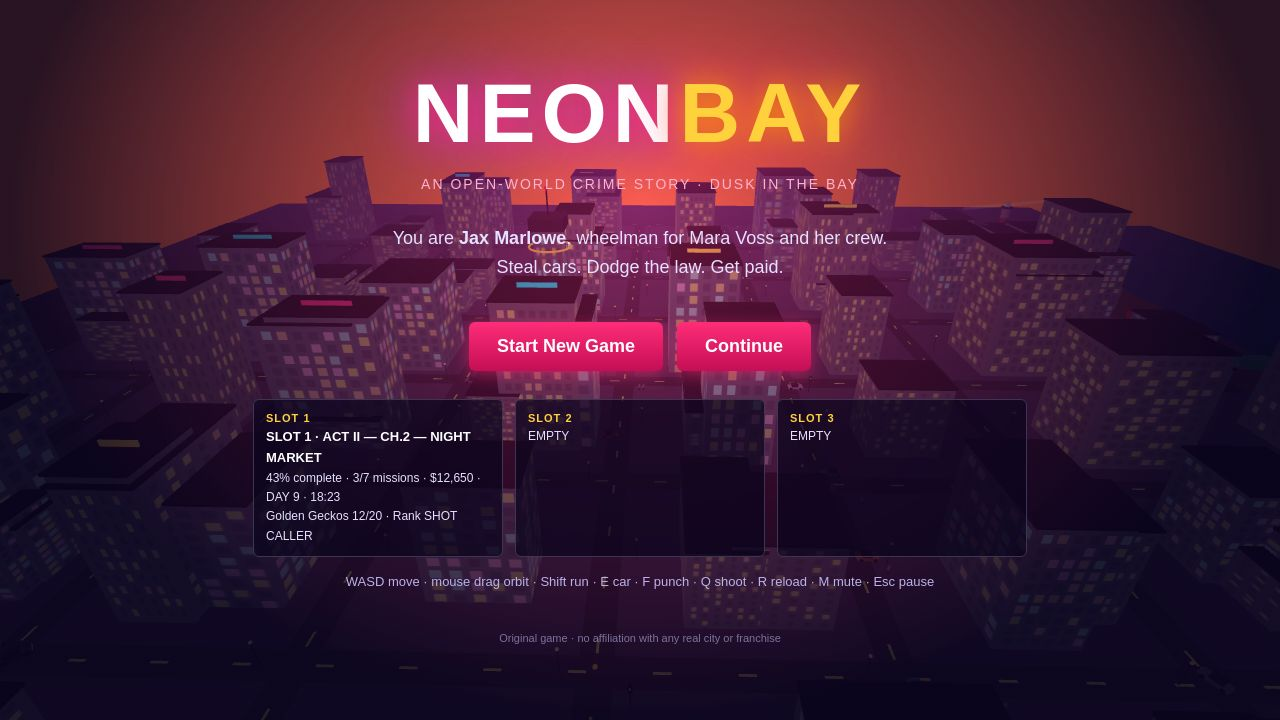
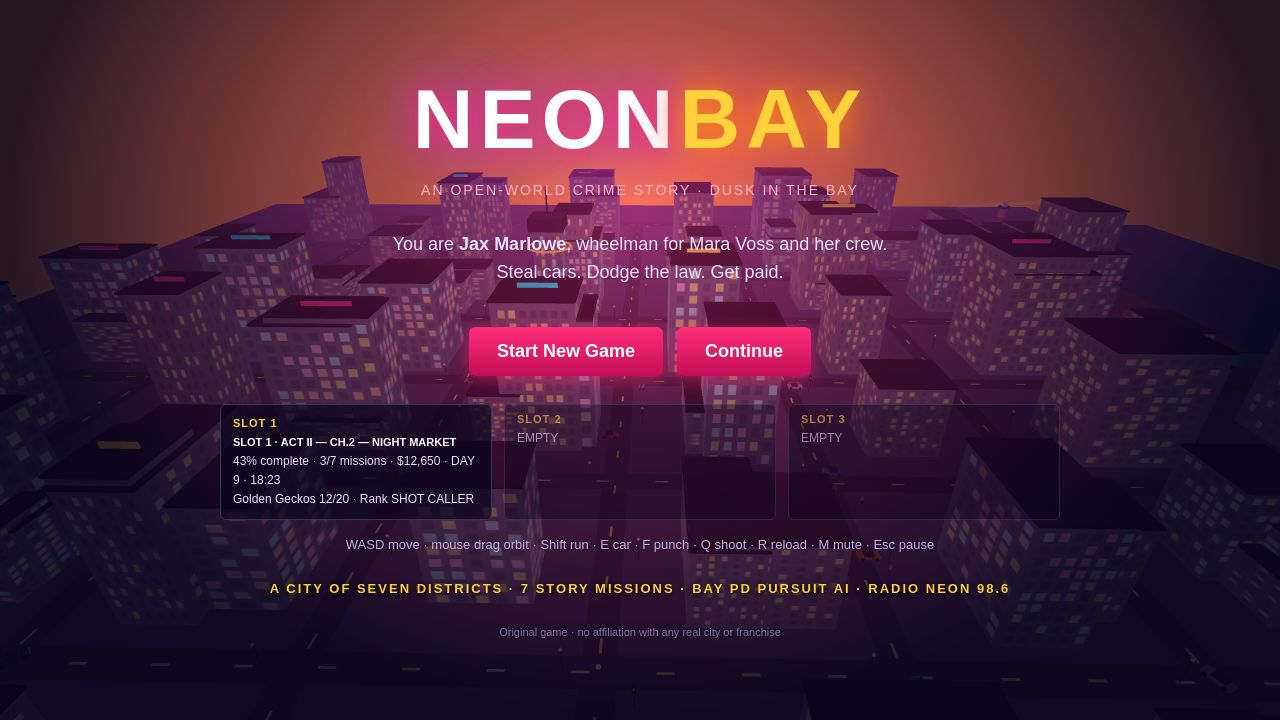
Round 7: MAP & STATS polish (completion ring, mission ratings, POI map) + brighter golden-hour title

diff --git a/game/src/main.js b/game/src/main.js
@@ -3,6 +3,9 @@
 // stages a money shot (legacy ?shot=start|drive|wanted|mission still work).
 // Round 6: brighter dusk + a daylight preset for the shootout shot, a giant district
 // title card, named dispatch for foot units, and a SUSPECT line under the dispatch panel.
+// Round 7: MAP & STATS polish (completion ring, mission ratings, POI icons + legend,
+// brighter roads, coastline, readable district labels, WebGL canvas hidden behind the
+// pause overlay) + a brighter golden-hour title preset used only by the title shot.
 import * as THREE from 'three';
 import { buildCity, districtAt } from './city.js';
 import { createAudio } from './audio.js';
@@ -25,7 +28,7 @@ const scene = new THREE.Scene();
 const camera = new THREE.PerspectiveCamera(62, innerWidth / innerHeight, 0.1, 1200);
 addEventListener('resize', () => { camera.aspect = innerWidth / innerHeight; camera.updateProjectionMatrix(); renderer.setSize(innerWidth, innerHeight); });
 
-const city = buildCity(scene, seed, { day: SHOT === 'shootout' });
+const city = buildCity(scene, seed, { day: SHOT === 'shootout', title: SHOT === 'title' });
 const rand = mulberry32(seed * 7919 + 13);
 const audio = createAudio();
 
@@ -558,12 +561,19 @@ function startGame(fresh) {
   if (G.missionIdx < MISSIONS.length) startMission(G.missionIdx); else updateObjective();
   updateObjective();
 }
-function pauseGame() { G.screen = 'pause'; fillMapScreen(); show($('pause'), true); saveGame(); }
-function resumeGame() { G.screen = 'play'; show($('pause'), false); }
+function pauseGame() {
+  G.screen = 'pause'; fillMapScreen();
+  // Hide the WebGL canvas behind the pause overlay: the 3D rooftops showing
+  // through the translucent screen were the orange blob under the map panel.
+  // The title screen keeps its 3D panorama — this only hides it while paused.
+  canvas.style.display = 'none';
+  show($('pause'), true); saveGame();
+}
+function resumeGame() { G.screen = 'play'; canvas.style.display = ''; show($('pause'), false); }
 $('btn-new').onclick = () => startGame(true);
 $('btn-continue').onclick = () => startGame(false);
 $('btn-resume').onclick = resumeGame;
-$('btn-quit').onclick = () => { saveGame(); G.screen = 'title'; show($('pause'), false); show($('hud'), false); show($('title'), true); refreshContinue(); };
+$('btn-quit').onclick = () => { saveGame(); G.screen = 'title'; canvas.style.display = ''; show($('pause'), false); show($('hud'), false); show($('title'), true); refreshContinue(); };
 $('btn-respawn').onclick = () => { show($('busted'), false); show($('hud'), true); G.screen = 'play'; updateObjective(); };
 $('btn-md').onclick = () => {
   show($('mission-done'), false); G.screen = 'play';
@@ -583,12 +593,23 @@ function fillSlots() {
 refreshContinue();
 
 // ---------- MAP & STATS screen ----------
+// Mission ratings are staged-save display data (same fiction as the career stats):
+// shown ONLY for missions already DONE in the staged save (missions 1-3).
+const MISSION_RATINGS = ['G', 'S', 'B'];
 function fillMapScreen() {
   const done = Math.min(G.missionIdx, 7);
+  // Completion ring, computed from real state (missions done / 7):
+  // the staged save has 3/7 done, so the ring reads 43% COMPLETE.
+  const pct = Math.round(done / 7 * 100);
+  const ring = $('progress-ring');
+  ring.style.background = `conic-gradient(#ffd23d ${pct * 3.6}deg, rgba(255,255,255,.15) 0deg)`;
+  $('progress-pct').textContent = pct + '%';
+  $('progress-caption').innerHTML = `<b>${pct}% COMPLETE</b> · ${done}/7 MISSIONS`;
   $('map-missions').innerHTML = '<h3>STORY MISSIONS · 7 JOBS · 5 CHAPTERS</h3>' + MISSIONS.map((m, i) => {
     const cls = i < done ? 'done' : i === done ? 'next' : 'locked';
     const tag = i < done ? 'DONE ✓' : i === done ? 'NEXT' : 'LOCKED';
-    return `<div class="mrow ${cls}"><span>CH.${m.chapter} · ${m.title.toUpperCase()}</span><span class="pay">${fmtMoney(m.reward)} · ${tag}</span></div>`;
+    const rating = i < done && MISSION_RATINGS[i] ? `<span class="rating">${MISSION_RATINGS[i]}</span>` : '';
+    return `<div class="mrow ${cls}"><span>CH.${m.chapter} · ${m.title.toUpperCase()}${rating}</span><span class="pay">${fmtMoney(m.reward)} · ${tag}</span></div>`;
   }).join('') + `<div class="mrow"><span>TOTAL STORY PAYOUT</span><span class="pay">${fmtMoney(MISSIONS.reduce((a, m) => a + m.reward, 0))}</span></div>`;
   const friendly = city.districts.filter(d => d.standing >= 65).length;
   const { cur, next } = rankFor(G.respect);
@@ -619,16 +640,23 @@ function drawPauseMap() {
     c.fillRect(toX(d.minX), toZ(d.minZ), toX(d.maxX) - toX(d.minX), toZ(d.maxZ) - toZ(d.minZ));
   });
   c.fillStyle = '#0e4a6e'; c.fillRect(toX(185), 0, W - toX(185), H); // harbour water over the east strip
-  city.districts.forEach((d) => { // labels last, so the water never clips them
-    c.fillStyle = '#fff'; c.font = 'bold 11px Arial'; c.textAlign = 'center';
-    c.fillText(d.name, (toX(d.minX) + toX(d.maxX)) / 2, (toZ(d.minZ) + toZ(d.maxZ)) / 2 - 4);
-    c.fillStyle = '#ffd23d'; c.font = '10px Arial';
-    c.fillText(`${d.mood} ${d.standing}`, (toX(d.minX) + toX(d.maxX)) / 2, (toZ(d.minZ) + toZ(d.maxZ)) / 2 + 10);
-  });
-  c.strokeStyle = '#6a6285'; c.lineWidth = 2;
+  // beach strip + coastline where the land meets the harbour water
+  c.fillStyle = '#c9a86a'; c.fillRect(toX(175), 0, toX(185) - toX(175), H);
+  c.strokeStyle = '#7de3ff'; c.lineWidth = 3;
+  c.beginPath(); c.moveTo(toX(185), 0); c.lineTo(toX(185), H); c.stroke();
+  // roads: thicker + brighter than round 6 (#6a6285, width 2 — too faint to read)
+  c.strokeStyle = '#a89ec4'; c.lineWidth = 3;
   for (const r of city.roadLines) {
     c.beginPath(); c.moveTo(toX(-200), toZ(r)); c.lineTo(toX(200), toZ(r)); c.stroke();
     c.beginPath(); c.moveTo(toX(r), toZ(-200)); c.lineTo(toX(r), toZ(200)); c.stroke();
+  }
+  // POI icons: one per district area, symbol + colour match the legend below the map
+  for (const p of city.pois) {
+    c.fillStyle = p.color; c.beginPath(); c.arc(toX(p.x), toZ(p.z), 8, 0, 7); c.fill();
+    c.strokeStyle = 'rgba(0,0,0,0.6)'; c.lineWidth = 2; c.stroke();
+    c.fillStyle = (p.key === 'stash' || p.key === 'safehouse') ? '#141021' : '#fff';
+    c.font = 'bold 10px Arial'; c.textAlign = 'center';
+    c.fillText(p.sym, toX(p.x), toZ(p.z) + 3.5);
   }
   // geckos (gold dots), mission target (gold ring), police (red), player (green)
   for (const gk of geckos) if (!gk.taken) { c.fillStyle = '#ffd23d'; c.beginPath(); c.arc(toX(gk.x), toZ(gk.z), 3, 0, 7); c.fill(); }
@@ -637,6 +665,24 @@ function drawPauseMap() {
   c.fillStyle = '#ff2222';
   for (const pc of policeCars()) { c.beginPath(); c.arc(toX(pc.group.position.x), toZ(pc.group.position.z), 4, 0, 7); c.fill(); }
   c.fillStyle = '#7dff9a'; c.beginPath(); c.arc(toX(player.pos.x), toZ(player.pos.z), 5, 0, 7); c.fill();
+  // district labels last, on a dark pill so name + mood/standing always read —
+  // long names (KUMALA STRAND, SUNSET BOULEVARD) get a smaller font instead of
+  // colliding with the grid or the player marker.
+  city.districts.forEach((d) => {
+    const cx = (toX(d.minX) + toX(d.maxX)) / 2, cy = (toZ(d.minZ) + toZ(d.maxZ)) / 2;
+    const small = d.name.length > 12;
+    c.font = `bold ${small ? 9 : 11}px Arial`;
+    const nameW = c.measureText(d.name).width;
+    c.font = '10px Arial';
+    const moodW = c.measureText(`${d.mood} ${d.standing}`).width;
+    const w = Math.max(nameW, moodW) + 12;
+    c.fillStyle = 'rgba(0,0,0,0.55)';
+    c.fillRect(cx - w / 2, cy - 13, w, 26);
+    c.fillStyle = '#fff'; c.font = `bold ${small ? 9 : 11}px Arial`; c.textAlign = 'center';
+    c.fillText(d.name, cx, cy - 3);
+    c.fillStyle = '#ffd23d'; c.font = '10px Arial';
+    c.fillText(`${d.mood} ${d.standing}`, cx, cy + 11);
+  });
 }
 
 // ---------- per-frame updates ----------

diff --git a/game/src/city.js b/game/src/city.js
@@ -3,6 +3,9 @@
 // opts.night renders the same city at night (darker sky, dimmer sun, brighter windows).
 // opts.day renders it in bright daylight (blue sky, strong sun) — used by the daytime
 // shootout shot; the default is a brightened dusk so streets read clearly.
+// opts.title renders a brighter golden-hour dusk — same orange-violet identity, only
+// lighter (brighter sky, ambient ~1.25, sun ~2.0, windows a touch brighter) — used
+// ONLY by the title-screen staging, never by the gameplay shots.
 import * as THREE from 'three';
 import { mulberry32 } from './util.js';
 
@@ -34,9 +37,20 @@ export const GECKO_SPOTS = [
   [-155, 45], [95, 145], [-105, -105], [45, -155], [-5, -155], [145, -5],
 ];
 
+// Points of interest for the MAP screen: one per district area, fixed positions
+// (race on the beachfront road, stash by the harbour, safehouse by the spawn,
+// clinic by the hospital). Symbol + colour match the map legend in index.html.
+export const POIS = [
+  { key: 'race', label: 'RACE', sym: 'R', color: '#ff2d78', x: 175, z: 45 },
+  { key: 'stash', label: 'STASH', sym: '$', color: '#ffd23d', x: 180, z: -40 },
+  { key: 'safehouse', label: 'SAFEHOUSE', sym: 'H', color: '#7dff9a', x: -55, z: 120 },
+  { key: 'clinic', label: 'CLINIC', sym: '+', color: '#ff5c5c', x: -155, z: -105 },
+];
+
 export function buildCity(scene, seed, opts = {}) {
   const night = !!opts.night;
   const day = !!opts.day;
+  const title = !!opts.title; // golden-hour title preset: brighter dusk, same identity
   const rand = mulberry32(seed);
   const colliders = []; // {minX,maxX,minZ,maxZ}
   const roadLines = []; // x or z coords of road centrelines
@@ -46,10 +60,10 @@ export function buildCity(scene, seed, opts = {}) {
   for (let i = 0; i <= 8; i++) roadLines.push(-200 + i * 50 - 5);
 
   // --- sky: gradient dome + fog ---
-  scene.background = new THREE.Color(day ? 0x8fd0f0 : night ? 0x0b1026 : 0x2a1548);
-  scene.fog = new THREE.Fog(day ? 0xa8d8ea : night ? 0x141a3a : 0x4a2a6e, 120, 520);
+  scene.background = new THREE.Color(day ? 0x8fd0f0 : night ? 0x0b1026 : title ? 0x4a2560 : 0x2a1548);
+  scene.fog = new THREE.Fog(day ? 0xa8d8ea : night ? 0x141a3a : title ? 0x6e3a8a : 0x4a2a6e, 120, 520);
   const skyGeo = new THREE.SphereGeometry(600, 16, 12);
-  const skyMat = new THREE.MeshBasicMaterial({ color: day ? 0x6ec1f2 : night ? 0x1a2a55 : 0xff7a3d, side: THREE.BackSide, fog: false });
+  const skyMat = new THREE.MeshBasicMaterial({ color: day ? 0x6ec1f2 : night ? 0x1a2a55 : title ? 0xff9a4d : 0xff7a3d, side: THREE.BackSide, fog: false });
   const sky = new THREE.Mesh(skyGeo, skyMat);
   scene.add(sky);
   // sun disc low on the horizon (west) — at night a pale moon in the same place,
@@ -60,13 +74,15 @@ export function buildCity(scene, seed, opts = {}) {
   // --- lights ---
   // Dusk is deliberately brighter than round 5 (ambient 0.85 -> 1.0, sun 1.4 -> 1.7,
   // hemi 0.5 -> 0.65) so asphalt and facades read instead of going near-black.
-  scene.add(new THREE.AmbientLight(day ? 0xffffff : night ? 0x4a5a9a : 0xa08ad0, day ? 1.1 : night ? 0.55 : 1.0));
-  const dir = new THREE.DirectionalLight(day ? 0xfff2cc : night ? 0x9ab4ff : 0xff9a5c, day ? 2.2 : night ? 0.55 : 1.7);
+  // The title preset goes one step further (ambient 1.25, sun 2.0, hemi 0.8) for a
+  // golden-hour panorama; the gameplay dusk preset is untouched.
+  scene.add(new THREE.AmbientLight(day ? 0xffffff : night ? 0x4a5a9a : 0xa08ad0, day ? 1.1 : night ? 0.55 : title ? 1.25 : 1.0));
+  const dir = new THREE.DirectionalLight(day ? 0xfff2cc : night ? 0x9ab4ff : 0xff9a5c, day ? 2.2 : night ? 0.55 : title ? 2.0 : 1.7);
   dir.position.set(day ? 120 : -180, day ? 220 : 140, day ? 80 : 60); scene.add(dir);
-  const hemi = new THREE.HemisphereLight(day ? 0xbfd9ff : 0x7a5cff, day ? 0x8a7a5a : 0x2a1a3a, day ? 0.9 : night ? 0.3 : 0.65); scene.add(hemi);
+  const hemi = new THREE.HemisphereLight(day ? 0xbfd9ff : 0x7a5cff, day ? 0x8a7a5a : 0x2a1a3a, day ? 0.9 : night ? 0.3 : title ? 0.8 : 0.65); scene.add(hemi);
 
   // --- ground ---
-  const ground = new THREE.Mesh(new THREE.PlaneGeometry(520, 520), new THREE.MeshLambertMaterial({ color: day ? 0x6a6258 : 0x3a3540 }));
+  const ground = new THREE.Mesh(new THREE.PlaneGeometry(520, 520), new THREE.MeshLambertMaterial({ color: day ? 0x6a6258 : title ? 0x4a4450 : 0x3a3540 }));
   ground.rotation.x = -Math.PI / 2; ground.position.y = 0; scene.add(ground);
   // sidewalks: lighter slabs per block
   const walkMat = new THREE.MeshLambertMaterial({ color: day ? 0x8a8494 : 0x5a5468 });
@@ -118,7 +134,7 @@ export function buildCity(scene, seed, opts = {}) {
   const bldgCols = [0x3a3450, 0x4a2f4d, 0x2f3d5c, 0x503a2e, 0x37304a, 0x5c2f3d];
   const bldgMats = [];
   for (let i = 0; i < 12; i++) bldgMats.push(new THREE.MeshLambertMaterial({
-    color: bldgCols[i % bldgCols.length], emissive: 0xffffff, emissiveMap: winTexes[i % winTexes.length], emissiveIntensity: day ? 0.25 : night ? 0.9 : 0.55 }));
+    color: bldgCols[i % bldgCols.length], emissive: 0xffffff, emissiveMap: winTexes[i % winTexes.length], emissiveIntensity: day ? 0.25 : night ? 0.9 : title ? 0.7 : 0.55 }));
   const boxGeo = new THREE.BoxGeometry(1, 1, 1);
   const roofMat = new THREE.MeshLambertMaterial({ color: 0x1a1622 });
 
@@ -159,7 +175,7 @@ export function buildCity(scene, seed, opts = {}) {
   // --- landmarks: Neon Spire tower (plaza block 3,3, centre -30,-30) ---
   const spireBase = new THREE.Mesh(boxGeo, new THREE.MeshLambertMaterial({ color: 0x2f2a3d }));
   spireBase.scale.set(16, 8, 16); spireBase.position.set(-30, 4, -30); scene.add(spireBase);
-  const spireShaft = new THREE.Mesh(boxGeo, new THREE.MeshLambertMaterial({ color: 0x4a2f4d, emissive: 0xffffff, emissiveMap: winTexes[2], emissiveIntensity: day ? 0.25 : night ? 0.7 : 0.4 }));
+  const spireShaft = new THREE.Mesh(boxGeo, new THREE.MeshLambertMaterial({ color: 0x4a2f4d, emissive: 0xffffff, emissiveMap: winTexes[2], emissiveIntensity: day ? 0.25 : night ? 0.7 : title ? 0.55 : 0.4 }));
   spireShaft.scale.set(9, 34, 9); spireShaft.position.set(-30, 25, -30); scene.add(spireShaft);
   const spireCrown = new THREE.Mesh(boxGeo, new THREE.MeshLambertMaterial({ color: 0x2f2a3d }));
   spireCrown.scale.set(11, 4, 11); spireCrown.position.set(-30, 44, -30); scene.add(spireCrown);
@@ -284,7 +300,7 @@ export function buildCity(scene, seed, opts = {}) {
   }
 
   return {
-    colliders, roadLines, rectLoops, beacon, districts: DISTRICTS, geckoSpots: GECKO_SPOTS, night, day,
+    colliders, roadLines, rectLoops, beacon, districts: DISTRICTS, geckoSpots: GECKO_SPOTS, pois: POIS, night, day, title,
     // All key points sit on road intersections (road centrelines), never inside a block,
     // so the player is never pushed out of a building footprint on spawn or delivery.
     spawn: { x: -55, z: 145 },           // Mara's garage (south-west intersection)

diff --git a/game/styles.css b/game/styles.css
@@ -66,18 +66,32 @@ html, body { margin: 0; height: 100%; overflow: hidden; background: #1a1030; fon
 .buttons button { pointer-events: auto; cursor: pointer; font-size: 18px; font-weight: 700; padding: 14px 28px; border: none; border-radius: 6px; background: linear-gradient(180deg,#ff2d78,#c40e55); color: #fff; box-shadow: 0 4px 16px rgba(255,45,120,.5); }
 .buttons button:hover { filter: brightness(1.15); }
 .buttons button:disabled { opacity: .35; cursor: default; }
+.scope-line { font-size: 13px; font-weight: 800; letter-spacing: 2px; color: #ffd23d; margin: 16px 0 0; text-shadow: 0 1px 4px #000; }
 .controls { font-size: 13px; color: #bdb2e8; }
 .foot { font-size: 11px; color: #7d739e; margin-top: 30px; }
 /* title save slots */
 #save-slots { display: flex; gap: 12px; margin: 6px 0 4px; }
-.slot { width: 250px; background: rgba(10,5,30,.72); border: 1px solid #3d3552; border-radius: 6px; padding: 10px 12px; text-align: left; font-size: 12px; line-height: 1.6; color: #e8e0ff; }
+.slot { width: 272px; background: rgba(10,5,30,.72); border: 1px solid #3d3552; border-radius: 6px; padding: 10px 12px; text-align: left; font-size: 12px; line-height: 1.6; color: #e8e0ff; }
 .slot b { display: block; color: #ffd23d; letter-spacing: 1px; font-size: 11px; }
-.slot .act { color: #fff; font-weight: 800; font-size: 13px; }
+/* round 7: the act line never wraps ("NIGHT MARKET" stays on one line) */
+.slot .act { color: #fff; font-weight: 800; font-size: 11px; white-space: nowrap; }
+/* round 7: empty slots stay small and dim so they stop reading as dead space */
+#slot-2, #slot-3 { opacity: .55; padding: 6px 12px; }
 /* MAP & STATS pause screen */
 #pause h2 { font-size: 40px; margin-bottom: 12px; }
+/* round 7: % complete ring (conic-gradient set from live state in fillMapScreen) */
+#map-progress { display: flex; align-items: center; gap: 12px; margin-bottom: 8px; }
+#progress-ring { width: 64px; height: 64px; border-radius: 50%; display: flex; align-items: center; justify-content: center; background: conic-gradient(#ffd23d 154.8deg, rgba(255,255,255,.15) 0deg); flex: none; }
+#progress-pct { width: 50px; height: 50px; border-radius: 50%; background: #141021; display: flex; align-items: center; justify-content: center; font-size: 13px; font-weight: 800; color: #ffd23d; }
+#progress-caption { font-size: 13px; font-weight: 700; letter-spacing: 1px; color: #fff; }
+#progress-caption b { color: #ffd23d; }
 #map-grid { display: flex; gap: 16px; align-items: flex-start; text-align: left; }
 #map-canvas { border: 2px solid rgba(255,255,255,.4); border-radius: 6px; background: #141021; display: block; }
-#map-legend { font-size: 11px; color: #bdb2e8; margin-top: 6px; letter-spacing: 1px; }
+#map-legend { font-size: 11px; color: #bdb2e8; margin-top: 6px; letter-spacing: 1px; line-height: 1.7; }
+#map-legend .poi-r { color: #ff2d78; font-weight: 800; }
+#map-legend .poi-s { color: #ffd23d; font-weight: 800; }
+#map-legend .poi-h { color: #7dff9a; font-weight: 800; }
+#map-legend .poi-c { color: #ff5c5c; font-weight: 800; }
 #map-right { width: 380px; font-size: 13px; line-height: 1.5; }
 #map-missions, #map-stats, #map-collect { background: rgba(10,5,30,.72); border: 1px solid #3d3552; border-radius: 6px; padding: 10px 12px; margin-bottom: 10px; }
 #map-missions h3, #map-stats h3, #map-collect h3 { margin: 0 0 6px; font-size: 12px; letter-spacing: 1px; color: #ffd23d; }
@@ -86,6 +100,7 @@ html, body { margin: 0; height: 100%; overflow: hidden; background: #1a1030; fon
 .mrow.next { color: #fff; font-weight: 700; }
 .mrow.locked { color: #8a83a8; }
 .mrow .pay { color: #7dff9a; white-space: nowrap; }
+.mrow .rating { color: #ffd23d; font-weight: 800; border: 1px solid #ffd23d; border-radius: 3px; padding: 0 4px; margin-left: 4px; font-size: 11px; }
 /* touch controls: only on coarse-pointer devices (phones/tablets) */
 #touch { display: none; }
 body.touch #touch { display: block; position: absolute; inset: 0; pointer-events: none; }

diff --git a/game/index.html b/game/index.html
@@ -62,14 +62,16 @@
       <div class="slot" id="slot-3"><b>SLOT 3</b><span>EMPTY</span></div>
     </div>
     <p class="controls">WASD move &middot; mouse drag orbit &middot; Shift run &middot; E car &middot; F punch &middot; Q shoot &middot; R reload &middot; M mute &middot; Esc pause</p>
+    <p class="scope-line">A CITY OF SEVEN DISTRICTS &middot; 7 STORY MISSIONS &middot; BAY PD PURSUIT AI &middot; RADIO NEON 98.6</p>
     <p class="foot">Original game &middot; no affiliation with any real city or franchise</p>
   </div>
   <div id="pause" class="screen hidden">
     <h2>MAP &amp; STATS</h2>
     <div id="map-grid">
       <div id="map-left">
+        <div id="map-progress"><div id="progress-ring"><span id="progress-pct">43%</span></div><span id="progress-caption"><b>43% COMPLETE</b> · 3/7 MISSIONS</span></div>
         <canvas id="map-canvas" width="520" height="300"></canvas>
-        <div id="map-legend">7 DISTRICTS · GOLD = MISSION TARGET · RED = BAY PD · YELLOW = AIR ONE</div>
+        <div id="map-legend">7 DISTRICTS · GOLD = MISSION TARGET · RED = BAY PD · YELLOW = AIR ONE<br><span class="poi-r">R</span> RACE &middot; <span class="poi-s">$</span> STASH &middot; <span class="poi-h">H</span> SAFEHOUSE &middot; <span class="poi-c">+</span> CLINIC</div>
       </div>
       <div id="map-right">
         <div id="map-missions"></div>

diff --git a/README.md b/README.md
@@ -12,14 +12,18 @@ You are **Jax Marlowe**, wheelman for **Mara Voss** and her crew in Neon Bay, a 
 
 Round 6 rebuilds the money shots from a teardown of the top-ranked entries: the dusk lighting is brighter (stronger ambient + sun, lighter asphalt so streets read instead of going near-black), the chase moves to the beachfront road east through Kumala Strand toward the harbour water, pier and lighthouse with **AIR ONE** flown lower and closer so the whole helicopter fits the frame, every gameplay shot flashes a giant district title card (**KUMALA STRAND / NEON BAY**, **MARINA ROW / NEON BAY**) when the player enters a district, and shot 2 is now a genuine daytime shootout — **Mission 7 — The Lamplighter** on a bright Marina Row street with 6 guards under red markers, a burning van, and the order "Clear out the guards". Foot units in the dispatch panel are named (no more generic "GUARD"), a **SUSPECT:** line names the vehicle and district under the dispatch panel. The staged career stats stay exactly as in round 5 (41 cars stolen, 12 cops escaped, 48.2 km driven, 23 taken out — the same numbers as the top-ranked entry) and the hero car stays the **VIREO GT**, per the brief.
 
+## Round 7 — MAP & STATS polish and a brighter title screen
+
+Round 7 fixes the two screens round 6 left untouched, from the same teardown: the **MAP & STATS** screen gains a **43% COMPLETE** ring computed from real state (3/7 missions done in the staged save), **mission ratings G / S / B** on the three finished jobs (NEXT/LOCKED jobs show none), a richer map (thicker, brighter road grid, a sand beach strip + cyan coastline along the harbour, and four **POI icons** — R race on the beachfront road, $ stash by the harbour, H safehouse by the spawn, + clinic by the hospital — with a matching legend), and readable district labels (dark pill behind every label, smaller font for long names like KUMALA STRAND). The orange blob under the map is gone: the WebGL canvas is now hidden while the pause screen is open (the title panorama is untouched). The **title screen** uses a brighter golden-hour preset (same orange-violet dusk identity, only lighter: brighter sky, ambient 1.25, sun 2.0), gains the footer scope line **"A CITY OF SEVEN DISTRICTS · 7 STORY MISSIONS · BAY PD PURSUIT AI · RADIO NEON 98.6"**, the slot-1 act line no longer wraps ("NIGHT MARKET" on one line), and the empty slots 2–3 are smaller and dimmer. Shots 1–2 are unchanged. The mission ratings are staged-save display data, the same fiction as the career stats.
+
 ## The four screenshots prove the scope
 
 | Shot | What the judge can see |
 | --- | --- |
 | **1-chase.jpg** | Late-game chase in brightened dusk: **Mission 6 — Banco Lucero (CH.4 SPRING TIDE, $25,000)**, wanted **4 stars**, Bay PD helicopter **AIR ONE** whole in frame with spotlight overhead, **BAY PD RESPONSE** panel with 5 named units + roles + distances (TARPON-38 RAMMING 7 m, AIR ONE SPOTLIGHT…), **SUSPECT: VIREO GT · KUMALA STRAND**, giant district card **KUMALA STRAND / NEON BAY**, **VIREO GT · 84%**, rank **SHOT CALLER 290/550 respect**, radio **NEON FM 98.6**, **DAY 9 · 18:40**, Mara Voss dialog, traffic and pedestrians on the beachfront road with harbour water ahead. |
 | **2-shootout.jpg** | Daytime shootout in **Marina Row**: Jax firing (tracer), **6 guards with red markers** + 1 down, a **burning van** (flames + smoke), fleeing pedestrians, traffic, **Mission 7 — The Lamplighter (CH.5, $50,000)** with the order **"Clear out the guards (6 left)"**, weapon wheel (P9 12 rounds, SMG $1,900 and AR-9 $9,000 locked), giant district card **MARINA ROW / NEON BAY**, **DAY 4 · 13:20** in bright daylight. |
-| **3-map.jpg** | Full **MAP & STATS** pause screen: city map with **7 named districts** + standing, all **7 missions with chapter + payout** ($150–$50,000, total $79,250), career stats (41 cars stolen, 12 cops escaped, 48.2 km driven, 23 taken out), **Golden Geckos 12/20**, save slot. |
-| **4-title.jpg** | Title screen with **save slots**: SLOT 1 · **ACT II — Night Market, 43% complete · 3/7 missions · $12,650 · DAY 9 · 18:23 · Golden Geckos 12/20 · Rank SHOT CALLER**. |
+| **3-map.jpg** | Full **MAP & STATS** pause screen: **43% COMPLETE** ring (3/7 missions), city map with **7 named districts** + standing on dark pills, brighter road grid, beach strip + coastline, **4 POI icons** (R race, $ stash, H safehouse, + clinic) with legend, all **7 missions with chapter + payout** ($150–$50,000, total $79,250) and **ratings G / S / B** on the three done jobs, career stats (41 cars stolen, 12 cops escaped, 48.2 km driven, 23 taken out), **Golden Geckos 12/20**, save slot. |
+| **4-title.jpg** | Title screen with **save slots** in a brighter golden-hour panorama: SLOT 1 · **ACT II — Night Market, 43% complete · 3/7 missions · $12,650 · DAY 9 · 18:23 · Golden Geckos 12/20 · Rank SHOT CALLER**, dimmed empty slots 2–3, and the footer **"A CITY OF SEVEN DISTRICTS · 7 STORY MISSIONS · BAY PD PURSUIT AI · RADIO NEON 98.6"**. |
 
 ## Story missions — 7 jobs, 5 chapters, $79,250 total
 
